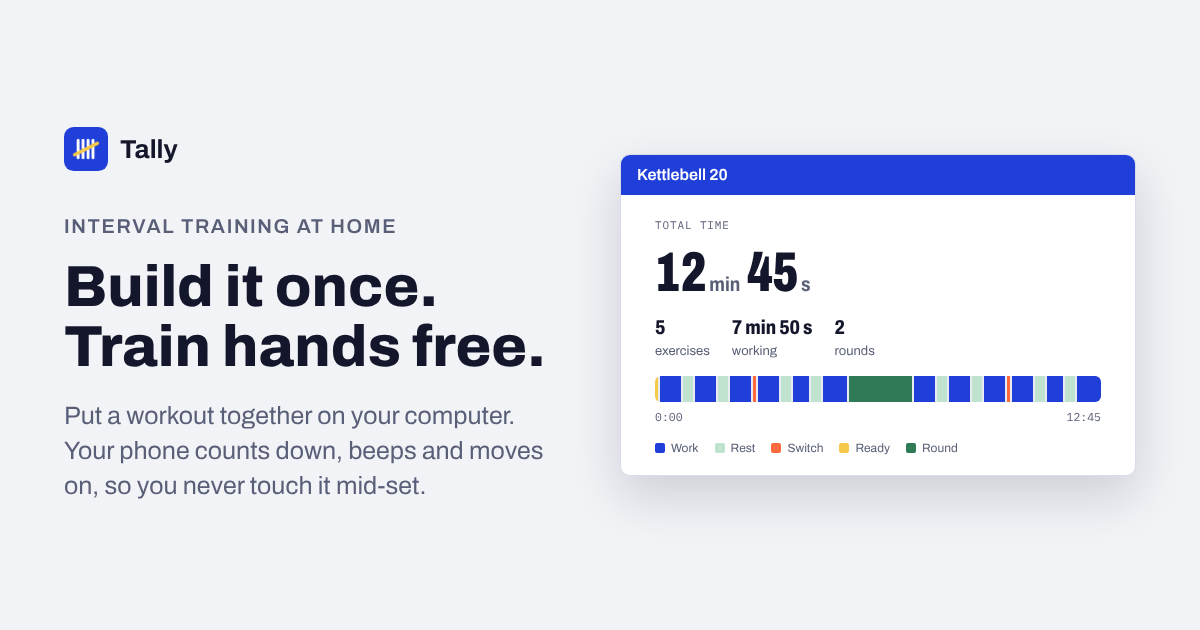
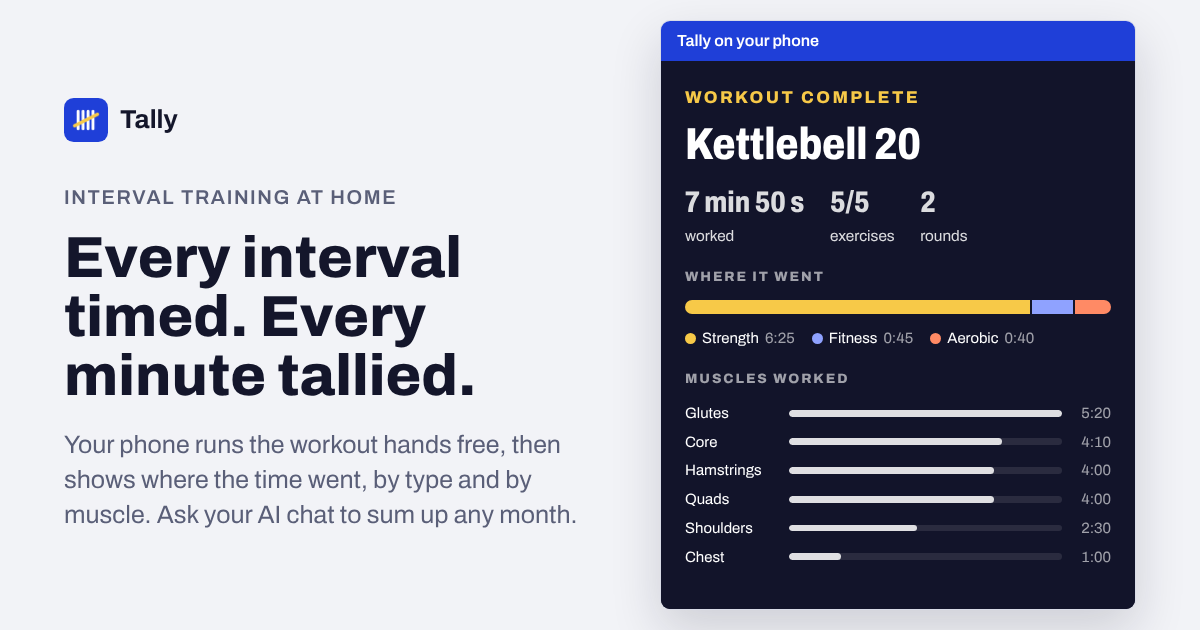
RAS-45: Lead the front page with the after-workout report
The product shown under the hero is now the phone's own finish screen
(time worked, by type and by muscle), drawn by activity.css with the
demo workout, instead of the builder's interval strip. New strapline,
lead, tile and sample chat to match, and a new share card.

Claude-Session: https://claude.ai/code/session_01FoWg7wpanw8qxZNmwCFKgi

diff --git a/apps/public/templates/public/home.html b/apps/public/templates/public/home.html
@@ -1,13 +1,13 @@
 {% extends "public_base.html" %}
 {% load static planner %}
 {# The front page, in the shape every Titan app shares (DESIGN.md, "The front page"). #}
-{% block title %}{{ pwa.name }}: build it once, train hands free{% endblock %}
+{% block title %}{{ pwa.name }}: every interval timed, every minute tallied{% endblock %}
 {% block description %}Put an interval workout together on your computer. Your phone counts down, beeps and moves on, so you never touch it mid-set.{% endblock %}
-{% block share_title %}Build it once. Train hands free.{% endblock %}
+{% block share_title %}Every interval timed. Every minute tallied.{% endblock %}
 {% block share_description %}Put an interval workout together on your computer. Your phone counts down, beeps and moves on, so you never touch it mid-set.{% endblock %}
-{% block share_image_alt %}Build it once. Train hands free. Beside it, a workout's every interval to scale, in the phone's colours.{% endblock %}
+{% block share_image_alt %}Every interval timed. Every minute tallied. Beside it, a workout's every interval to scale, in the phone's colours.{% endblock %}
 {% block extra_js %}
-  <link rel="stylesheet" href="{% static 'css/planner.css' %}">
+  <link rel="stylesheet" href="{% static 'css/activity.css' %}">
   <script src="{% static 'js/styles.js' %}" defer></script>
   <script src="{% static 'js/copy.js' %}" defer></script>
 {% endblock %}
@@ -15,8 +15,8 @@
   {# 2. Proposition: the promise, and one way in, named for the first job. #}
   <section class="hero stack">
     <p class="eyebrow">Interval training at home</p>
-    <h1>Build it once. Train hands free.</h1>
-    <p class="hero__lead">Put a workout together on your computer. Your phone counts down, beeps and moves on, so you never touch it mid-set.</p>
+    <h1>Every interval timed. Every minute tallied.</h1>
+    <p class="hero__lead">Your phone runs the workout hands free, then shows where the time went, by type and by muscle. Ask your AI chat to sum up any month.</p>
     {% if user.is_authenticated %}
       <a class="button button--block" href="{% url 'activity:app' %}">Open the app</a>
     {% else %}
@@ -25,19 +25,29 @@
     {% endif %}
   </section>
 
-  {# 3. The product, live: the builder's own make-up panel, drawn by planner.css with a demo workout. #}
+  {# 3. The product, live: the phone's own finish screen, drawn by activity.css with a demo workout. #}
   <figure class="showcase">
-    <div class="showcase__screen planner" inert>
-      <div class="showcase__bar">{{ demo.name }}</div>
-      <div class="makeup">
-        <span class="sub sub--first">Total time</span>
-        <div class="big">{{ demo.minutes }}<small>min</small> {{ demo.seconds }}<small>s</small></div>
-        <div class="kv"><span><b>{{ demo.exercises }}</b>exercises</span><span><b>{{ demo.working|duration }}</b>working</span><span><b>{{ demo.rounds }}</b>rounds</span></div>
-        <div>{% include "planner/_strip.html" with segments=demo.segments size="mid" label="Every interval of the workout, to scale" %}<div class="axis"><span>0:00</span><span>{{ demo.total|mmss }}</span></div></div>
-        <div class="legend legend--small"><span><i class="ph-work"></i>Work</span><span><i class="ph-rest"></i>Rest</span><span><i class="ph-switch"></i>Switch</span><span><i class="ph-ready"></i>Ready</span><span><i class="ph-round"></i>Round</span></div>
+    <div class="showcase__screen" inert>
+      <div class="showcase__bar">{{ pwa.name }} on your phone</div>
+      <div id="app" class="embedded">
+        <div class="scr s-done">
+          <div class="main">
+            <div class="eb">Workout complete</div>
+            <div class="name">{{ report.name }}</div>
+            <div class="stats"><div><b>{{ report.worked|duration }}</b>worked</div><div><b>{{ report.exercises }}/{{ report.exercises }}</b>exercises</div><div><b>{{ report.rounds }}</b>rounds</div></div>
+            <div class="sub">Where it went</div>
+            <div class="tbar">{% for type in report.types %}<span data-css="flex:{{ type.seconds }};background:{{ type.colour }}"></span>{% endfor %}</div>
+            <ul class="tleg">{% for type in report.types %}<li><i data-css="background:{{ type.colour }}"></i><span>{{ type.name }}</span><em>{{ type.seconds|mmss }}</em></li>{% endfor %}</ul>
+            <div class="sub">Muscles worked</div>
+            <ul class="mus">{% for muscle in report.muscles %}<li><span>{{ muscle.name }}</span><b><s data-css="width:{{ muscle.percent }}%"></s></b><em>{{ muscle.seconds|mmss }}</em></li>{% endfor %}</ul>
+            <div class="sub">How hard was it?</div>
+            <div class="rate">{% for n in report.effort %}<button type="button"{% if n <= report.rated %} class="on"{% endif %}>{{ n }}</button>{% endfor %}</div>
+            <div class="saved"><svg viewBox="0 0 24 24" aria-hidden="true"><path d="M5 12.5l4.5 4.5L19 7.5" fill="none" stroke="currentColor" stroke-width="2.6" stroke-linecap="round" stroke-linejoin="round"/></svg>Saved to your log</div>
+          </div>
+        </div>
       </div>
     </div>
-    <figcaption class="showcase__caption">Every interval to scale, in the colours your phone shows: blue is work, mint is rest, orange a switch of sides, green the break between rounds.</figcaption>
+    <figcaption class="showcase__caption">What your phone shows when a workout ends: the time you worked, split by type of training and by muscle. Every session goes in your log.</figcaption>
   </figure>
 
   {# 4. How it works: three tiles. #}
@@ -54,8 +64,8 @@
     </li>
     <li class="tile">
       <svg class="tile__icon" viewBox="0 0 24 24" aria-hidden="true"><path d="M4 20V10M10 20V4M16 20v-7M21 20H3" fill="none" stroke="currentColor" stroke-width="2" stroke-linecap="round"/></svg>
-      <p class="tile__title">Log</p>
-      <p class="meta">Time worked, by type and muscle.</p>
+      <p class="tile__title">See</p>
+      <p class="meta">Where the time went, by type and muscle.</p>
     </li>
   </ul>
 
@@ -66,10 +76,10 @@
       <h2 id="mcp-title">Plan from your AI chat</h2>
       <p>Connect {{ pwa.name }} to Claude or ChatGPT and ask in plain words. It reads your library and log, and builds or changes workouts. It never deletes anything, and sees only your account.</p>
       <div class="chat">
-        <p class="chat__you">Build me a 15-minute kettlebell workout.</p>
-        <p class="chat__reply">Done: Kettlebell 15, five exercises, two rounds, 20 s rests. It's on your phone under Show all.</p>
-        <p class="chat__you">Pin it for this week.</p>
-        <p class="chat__reply">Pinned. It's on your phone's home screen.</p>
+        <p class="chat__you">How did my training go last month?</p>
+        <p class="chat__reply">12 sessions, 3 h 10 min worked, effort 7 on average. Mostly strength: glutes and quads led, and you did no flexibility at all.</p>
+        <p class="chat__you">Build me a 15-minute stretch for after a run, and pin it.</p>
+        <p class="chat__reply">Done: Stretch 15, six exercises, pinned to your phone's home screen.</p>
       </div>
       <p class="eyebrow">Try asking</p>
       <ul class="asks">

diff --git a/static/css/activity.css b/static/css/activity.css
@@ -9,12 +9,16 @@
   --round-ink: #FFFFFF; --round-fill: rgba(0, 30, 15, .22);
   --paused: #2B2E3A; --paused-ink: #EEF0F6;
   --done: #12142A; --done-ink: #FFFFFF; --done-hi: #F7C948; --done-danger: #FF8A70;
-  color-scheme: dark;
 }
+html:has(> body.activity), #app { color-scheme: dark; }
 #app, #app * { box-sizing: border-box; }
 html:has(> body.activity), body.activity { margin: 0; height: 100%; background: var(--done); color: var(--done-ink); font-family: var(--f-ui); -webkit-tap-highlight-color: transparent; overscroll-behavior: none; }
 #app a { color: inherit; }
 #app { position: fixed; inset: 0; container-type: inline-size; }
+/* A screen drawn inside another page (the front page's report), at the
+ * height of its content. */
+#app.embedded { position: relative; inset: auto; margin-inline: calc(-1 * var(--space-lg)); background: var(--done); }
+#app.embedded .scr { height: auto; }
 
 #app .scr { position: relative; height: 100%; overflow: hidden; display: flex; flex-direction: column; user-select: none; -webkit-user-select: none;
   padding: calc(env(safe-area-inset-top, 0px) + 6cqw) calc(env(safe-area-inset-right, 0px) + 7cqw) calc(env(safe-area-inset-bottom, 0px) + 7cqw) calc(env(safe-area-inset-left, 0px) + 7cqw);

diff --git a/apps/public/views.py b/apps/public/views.py
@@ -4,20 +4,21 @@ They sit outside the installed app's /app/ scope, so the service worker
 never caches them and they never show inside the installed app.
 """
 
+from collections import defaultdict
 from typing import Any
 
 from django.http import HttpRequest, HttpResponse
 from django.shortcuts import render
 from django.views.decorators.http import require_GET
 
-from apps.library import timeline
-from apps.library.models import Exercise, Workout, WorkoutItem
+from apps.library import starter
+from apps.library.models import ExerciseType
 from apps.public.connector import mcp_url
 
-# The workout the front page draws with the builder's own make-up panel
-# (DESIGN.md, "The front page": the product, live, with demo data). Nothing
-# is saved: the objects exist only to go through timeline.segments, the
-# same sequence the phone plays. (exercise, one-sided, seconds)
+# The workout behind the front page's report: the phone's own finish screen
+# (DESIGN.md, "The front page": the product, live, with demo data). Its
+# exercises come from the starter library, so the types and muscles are the
+# ones every new account gets. Nothing is saved. (exercise, one-sided, seconds)
 DEMO_NAME = "Kettlebell 20"
 DEMO_ITEMS = [
     ("Kettlebell swing", False, 40),
@@ -27,34 +28,55 @@ DEMO_ITEMS = [
     ("Plank", False, 45),
 ]
 DEMO_ROUNDS = 2
-DEMO_REST = 20
+DEMO_EFFORT = 7
+DEMO_MUSCLES = 6
 
 
-def demo_workout() -> dict[str, Any]:
-    """Return the front page's demo workout: its name, numbers and interval sequence."""
-    workout = Workout(name=DEMO_NAME, rounds=DEMO_ROUNDS, rest_seconds=DEMO_REST)
-    items = [
-        WorkoutItem(exercise=Exercise(name=name, one_sided=one_sided), duration_seconds=seconds)
-        for name, one_sided, seconds in DEMO_ITEMS
+def demo_report() -> dict[str, Any]:
+    """Return the report the phone shows after the demo workout (mirrors engine.js breakdown).
+
+    Time worked goes to each exercise's types, split evenly, and in full to
+    each of its muscles. A one-sided exercise is worked once per side.
+    """
+    library = {name: (types, muscles) for name, types, muscles, *_rest in starter.EXERCISES}
+    by_type: dict[str, float] = defaultdict(float)
+    by_muscle: dict[str, int] = defaultdict(int)
+    worked = 0
+    for name, one_sided, seconds in DEMO_ITEMS:
+        types, muscles = library[name]
+        seconds *= DEMO_ROUNDS * (2 if one_sided else 1)
+        worked += seconds
+        for slug in types:
+            by_type[slug] += seconds / len(types)
+        for muscle in muscles:
+            by_muscle[muscle] += seconds
+    known = ExerciseType.objects.filter(slug__in=by_type).by_slug()
+    type_rows = [
+        {"name": known[slug].name, "colour": known[slug].colour, "seconds": round(seconds)}
+        for slug, seconds in sorted(by_type.items(), key=lambda kv: -kv[1])
+        if slug in known
     ]
-    segments = timeline.segments(workout, items)
-    total = sum(seconds for _kind, seconds in segments)
+    top_muscles = sorted(by_muscle.items(), key=lambda kv: -kv[1])[:DEMO_MUSCLES]
+    most = top_muscles[0][1]
     return {
-        "name": workout.name,
-        "exercises": len(items),
-        "rounds": workout.rounds,
-        "segments": segments,
-        "total": total,
-        "minutes": total // 60,
-        "seconds": total % 60,
-        "working": sum(seconds for kind, seconds in segments if kind == "work"),
+        "name": DEMO_NAME,
+        "worked": worked,
+        "exercises": len(DEMO_ITEMS),
+        "rounds": DEMO_ROUNDS,
+        "types": type_rows,
+        "muscles": [
+            {"name": muscle, "seconds": seconds, "percent": round(seconds * 100 / most)}
+            for muscle, seconds in top_muscles
+        ],
+        "effort": range(1, 11),
+        "rated": DEMO_EFFORT,
     }
 
 
 @require_GET
 def home(request: HttpRequest) -> HttpResponse:
     """The front page: the promise, the product, the connector and the way in."""
-    return render(request, "public/home.html", {"demo": demo_workout(), "mcp_url": mcp_url()})
+    return render(request, "public/home.html", {"report": demo_report(), "mcp_url": mcp_url()})
 
 
 @require_GET

diff --git a/tests/public/test_views.py b/tests/public/test_views.py
@@ -87,32 +87,40 @@ def test_home_opens_the_app_when_signed_in(signed_in: Client) -> None:
 
 
 def test_home_shows_the_product_with_demo_data(client: Client) -> None:
-    """The builder's own make-up panel and strip, drawn with a demo workout, not a picture."""
+    """The phone's own finish screen, drawn by activity.css with a demo workout, not a picture."""
     content = client.get(reverse("public:home")).content.decode()
-    assert 'class="showcase"' in content
-    assert 'class="makeup"' in content
-    assert 'class="strip mid"' in content
-    assert views.DEMO_NAME in content
-    assert "<img" not in content.split('class="showcase"')[1].split("</figure>")[0]
+    showcase = content.split('class="showcase"')[1].split("</figure>")[0]
+    assert "css/activity.css" in content
+    assert 'id="app" class="embedded"' in showcase
+    assert 'class="scr s-done"' in showcase
+    assert 'class="tbar"' in showcase
+    assert 'class="mus"' in showcase
+    assert views.DEMO_NAME in showcase
+    assert "7 min 50 s" in showcase
+    assert "<img" not in showcase
 
 
-def test_demo_workout_matches_the_builder() -> None:
-    """The demo is timed by timeline.segments, as the builder and the phone time it."""
-    demo = views.demo_workout()
-    assert demo["exercises"] == len(views.DEMO_ITEMS)
-    assert demo["total"] == sum(seconds for _kind, seconds in demo["segments"])
-    assert demo["minutes"] * 60 + demo["seconds"] == demo["total"]
-    assert ("switch", 5) in demo["segments"]  # Split squat runs per side
-    assert demo["working"] < demo["total"]
+def test_demo_report_matches_the_phone() -> None:
+    """Time by type is split evenly, time by muscle counts in full, as engine.js does it."""
+    report = views.demo_report()
+    assert report["worked"] == 470  # Split squat is worked once per side
+    assert sum(t["seconds"] for t in report["types"]) == report["worked"]
+    assert [t["name"] for t in report["types"]] == ["Strength", "Fitness", "Aerobic"]
+    assert report["types"][0]["seconds"] == 385
+    assert report["types"][0]["colour"].startswith("#")
+    assert report["muscles"][0] == {"name": "Glutes", "seconds": 320, "percent": 100}
+    assert len(report["muscles"]) == views.DEMO_MUSCLES
 
 
-def test_demo_workout_saves_nothing() -> None:
+def test_demo_report_saves_nothing() -> None:
     """Drawing the front page writes no rows."""
+    from apps.activity.models import ActivitySession
     from apps.library.models import Exercise, Workout
 
-    views.demo_workout()
+    views.demo_report()
     assert not Workout.objects.exists()
     assert not Exercise.objects.exists()
+    assert not ActivitySession.objects.exists()
 
 
 def test_home_shows_the_connector(client: Client, with_mcp: str) -> None:
